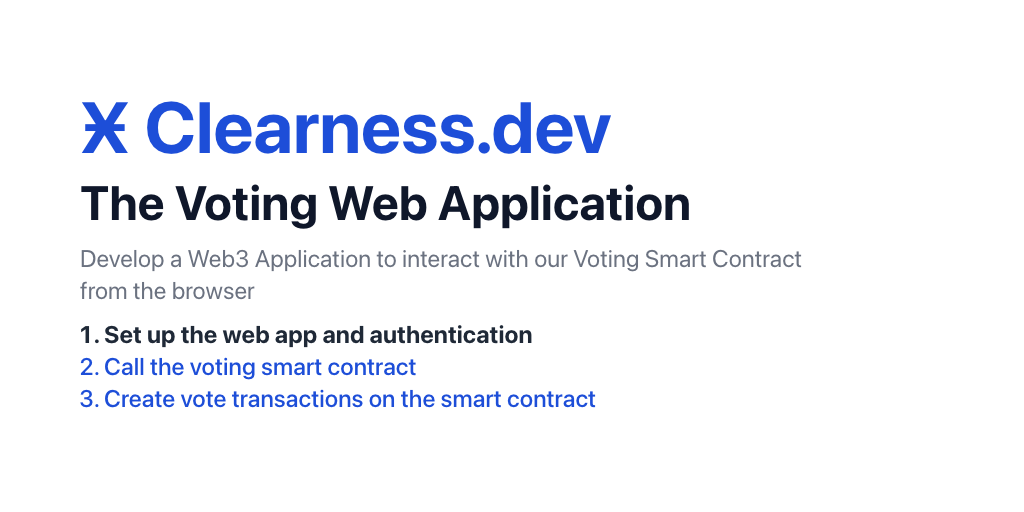
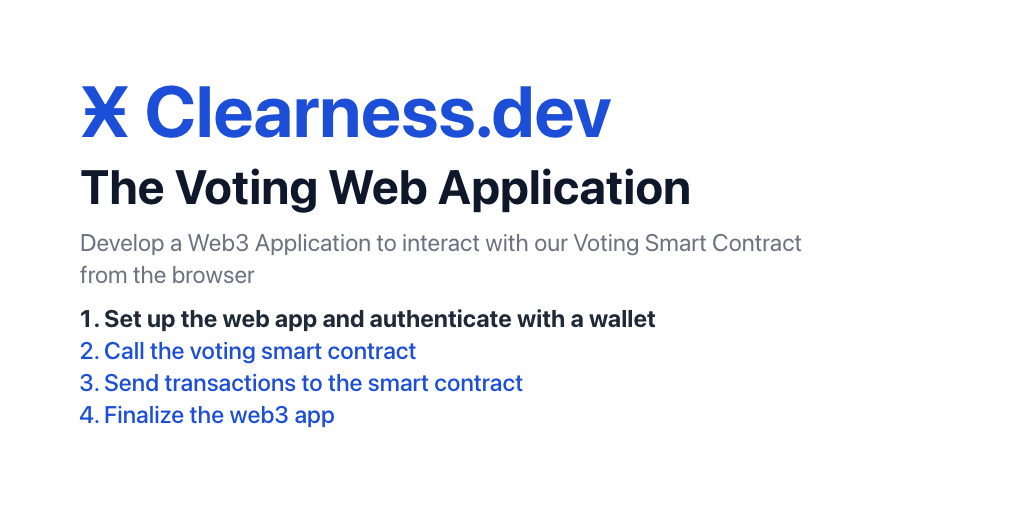
publish article 3.4 and end first web app series

Changed region(s): [[0.0625, 0.1562, 0.7812, 0.8438]]

diff --git a/app/routes/__posts/03-build-the-voting-client/04-improve-stacks-web-app.md b/app/routes/__posts/03-build-the-voting-client/04-improve-stacks-web-app.md
@@ -1,0 +1,208 @@
+---
+headers:
+  Cache-Control: public, max-age=0, must-revalidate, s-maxage=2592000
+---
+
+There will be fundamentally nothing new in this article. Take it as an exercise to practice and review what you previously learned.
+
+### Add a bit of Clarity
+
+I hope you didn't forget how to write Clarity code. Go back to the smart contract and add a function called `get-sender-vote`. This function will tell if the sender already voted and the values of its vote.  
+It's a one-line read-only function that returns `none` or `(some [<value>])`. Even though it's simple, I encourage you to write it yourself since you often need to tweak a contract while building its client app.
+
+Don't forget to add [tests](https://github.com/hugocaillard/clarity-voting-tuto/blob/72bb87d96e8fbd01c093a8d66a5f1367e06eba40/tests/color-vote_test.ts#L285-L303) for this new function.
+
+<details>
+<summary>💡 `get-sender-vote` function</summary>
+
+#### ./contracts/color-vote.clar
+```clarity
+(define-read-only (get-sender-vote) (map-get? votes tx-sender))
+```
+</details>
+
+
+### Get the sender's vote
+
+That's it for the Clarity part. You can go back to that web app code and we will now make use of this new function. In the color vote store, add a function `fetchVote()` that will call `get-sender-vote`. If there is a vote, save it in the `vote` property.  
+The trick here is to handle the [BigInt values](https://developer.mozilla.org/en-US/docs/Web/JavaScript/Reference/Global_Objects/BigInt) that will be returned by the contract. Our store expects Numbers and we want to keep it that way to easily set the values of the vote inputs. BigInts can easily be converted into Numbers with `parseInt`.
+
+Again, try and implement it by yourself as an exercise.
+
+In my implementation, I [changed](https://github.com/hugocaillard/color-webapp-tuto/pull/4/files#diff-c1b28751be28e0da46326d585afa2a643cb5502a35203fbe19b5a3f448311b67R42-R43) the `getInitialVote` function into `getVoteMap` which accepts optional values to return in the map instead of `undefined` values.
+
+<details>
+<summary>Solution: `fetchVote`</summary>
+
+#### ./src/stores/useColorVote.ts
+```ts
+const getVoteMap = (values) =>
+  new Map(ids.map((id, i) => [id, values ? values[i] : undefined]))
+
+export const useColorVote = create<ColorStore>((set, get) => ({
+  vote: getVoteMap(),
+  alreadyVoted: false,
+  // ...
+
+  async fetchVote() {
+    const rawVote = await readOnlyRequest('get-sender-vote')
+
+    const vote = cvToTrueValue(rawVote).map((v) => parseInt(v))
+    set({ vote: getVoteMap(voteAsNbs), alreadyVoted: true })
+  },
+```
+</details>
+
+<details>
+<summary>Typesafe version of `fetchVote`</summary>
+
+#### ./src/stores/useColorVote.ts
+```ts
+type ValidVote = [ValidValue, ValidValue, ValidValue, ValidValue]
+
+function isPreviousVoteValid(vote: unknown): vote is ValidVote {
+  if (!Array.isArray(vote) || vote.length !== 4) return false
+  return vote.reduce((acc, v) => isValueValid(v) && acc, true)
+}
+
+export const useColorVote = create<ColorStore>((set, get) => ({
+  // ...
+
+  async fetchVote() {
+    const rawVote = await readOnlyRequest('get-sender-vote')
+    if (!rawVote) return
+
+    const vote = cvToTrueValue(rawVote)
+    if (!vote || !Array.isArray(vote)) return
+
+    const voteAsNbs = vote.map((v) => parseInt(v))
+    if (!isPreviousVoteValid(voteAsNbs)) return
+    set({ vote: getVoteMap(voteAsNbs), alreadyVoted: true })
+  },
+```
+</details>
+
+### Call `fetchVote`
+
+This new function will be called the same way as `fetchColors`, as early as possible in `App.tsx`.
+
+#### ./src/App.tsx
+```tsx
+export function App() {
+  const { session } = useAuth()
+
+  useEffect(() => {
+    if (session) {
+      const { fetchVote, fetchColors } = useColorVote.getState()
+      fetchVote()
+      fetchColors()
+    }
+  }, [session])
+  // ...
+```
+
+### Update or cancel a vote
+
+Our app is now aware of whether the person already voted or not. This information is useful to know if `revote` should be called instead of `vote` or if `unvote` can be called.
+
+> :point_right: **Exercise**: edit `useColorVote` to:
+> - Call `revote` in `sendVote` if the user already voted
+> - Add an `unvote` function
+
+Note that in all cases (vote, revote and unvote), you want to save the tx ID so that you can display the status of the last transaction.
+
+
+<details>
+<summary>💡 `sendVote` and `unvote` functions</summary>
+
+#### ./src/stores/useColorVote.ts
+```ts
+  // since we now have two functions that save that tx id
+  // I put it in its own function
+  saveTx(txId: string) {
+    localStorage.setItem('txId', txId)
+    set({ txId })
+  },
+
+  async sendVote() {
+    const { vote, alreadyVoted, saveTx } = get()
+    const senderVote = ids.map((id) => vote.get(id))
+    if (!senderVote.every(isValueValid)) return
+
+    // update the contract call function
+    const txId = await callContract(
+      alreadyVoted ? 'revote' : 'vote',
+      senderVote.map(uintCV),
+    )
+    saveTx(txId)
+  },
+
+  async unvote() {
+    const { alreadyVoted, saveTx } = get()
+    if (!alreadyVoted) return
+
+    const txId = await callContract('unvote')
+    set({ vote: getVoteMap() })
+    saveTx(txId)
+  },
+```
+</details>
+
+> :bulb: As always, you may want to have a look at the [file on GitHub](https://github.com/hugocaillard/color-webapp-tuto/blob/step-4/src/stores/useColorVote.ts#L107-L123) to easily follow along.
+
+We can update the form's buttons to take into account the changes in the store.
+
+#### ./src/pages/Vote.tsx
+```tsx
+  const handleUnvote: JSX.MouseEventHandler<HTMLButtonElement> = (e) => {
+    e.preventDefault()
+    unvote()
+  }
+
+  return (
+    // ...
+            <div class="mt-6 flex justify-center gap-4">
+              {/* display "Revote" if the user already voted */}
+              <Button type="submit" disabled={!isValid}>
+                {alreadyVoted ? 'Revote' : 'Vote'}
+              </Button>
+
+              <Button type="reset">Empty form</Button>
+
+              {/* Allow use to cancel its vote */}
+              {alreadyVoted ? (
+                <Button type="button" onClick={handleUnvote}>
+                  Cancel vote
+                </Button>
+              ) : null}
+            </div>
+```
+
+In the `lastVote` component, I also added a line to display the function name of the last contract call since it can now have 3 different values.
+#### ./src/components/LastVote.tsx
+```tsx
+      <p>
+        <b>Function</b>:{' '}
+        <span className="capitalize">{lastTx.contract_call.function_name}</span>
+      </p>
+```
+
+Further improvements ideas:
+- Once the user voted, display the results of the election.
+- The result pages could be implemented with simple routing.
+- If the last tx is pending, fetch it every X seconds to know when it's successful (or if it failed). You don't want to call it too frequently because the API can be overloaded from time to time.
+- Feel free to get in touch with me on [GitHub](https://github.com/hugocaillard/color-webapp-tuto), [Twitter](https://twitter.com/cohars), or the [Stacks Discord](https://community.stacks.org/groups) to propose other ideas to add to this list.
+
+
+You may see these improvements in the latest version of the code on the GitHub repo but I won't cover them in articles.
+
+### Conclusion
+
+Here is the end of the first part of this series.  
+You now master the basics of Clarity and Web3 on Stacks. You can create valuable Smart Contracts and build front-end applications to interact with them.
+
+In the next articles, we will learn concepts such as transferring Stacks on the blockchain and manipulating NFTs. These are keys concepts of Web3 and things will get serious!  
+We will also go through other important concepts such as deploying smart contracts to the Stacks blockchain.
+
+> 💻 **Read the code on GitHub**. The source code of this article is on [this branch](https://github.com/hugocaillard/color-webapp-tuto/tree/step-4).
+> There is a [PR associated with this article](https://github.com/hugocaillard/color-webapp-tuto/pull/4).

diff --git a/app/routes/__posts/03-build-the-voting-client/03-write-on-stacks-blockchain.md b/app/routes/__posts/03-build-the-voting-client/03-write-on-stacks-blockchain.md
@@ -62,7 +62,7 @@ We will now go back to the `useColorVote` store and make use of this new functio
 
 To handle the sender's vote values, we'll add a `vote` [Map](https://developer.mozilla.org/fr/docs/Web/JavaScript/Reference/Global_Objects/Map) to store the value of each color. Maps are simple key-value stores and the key can be anything. In our case, it will be the IDs of the vote options (which are BigInts).
 
-#### ./src/storesuseColorVote.ts
+#### ./src/stores/useColorVote.ts
 
 ```ts
 import { cvToTrueValue, uintCV } from 'micro-stacks/clarity'
@@ -91,8 +91,7 @@ export const useColorVote = create<ColorStore>((set, get) => ({
 
 The big difference here is the `isValueValid` method and the strict typing of a valid vote value.
 
-#### ./src/storesuseColorVote.ts
-
+#### ./src/stores/useColorVote.ts
 ```ts
 import { cvToTrueValue, uintCV } from 'micro-stacks/clarity'
 
@@ -136,7 +135,7 @@ export const useColorVote = create<ColorStore>((set, get) => ({
 One last method is needed in this store to update the vote values. I named it `updateVote`, it takes two arguments, the color ID and the value of the vote.
 The method makes sure that the value is between 0 and 5 and then updates the votes map.
 
-#### ./src/storesuseColorVote.ts
+#### ./src/stores/useColorVote.ts
 
 ```ts
 export const useColorVote = create<ColorStore>((set, get) => ({
@@ -152,7 +151,7 @@ export const useColorVote = create<ColorStore>((set, get) => ({
 
 > :point_right: In the TS version you also need to call `isValueValid` function to ensure type safety (or use `as Vote`).
 
-At this stage, you can check the [`useColorVote.ts`](https://github.com/hugocaillard/color-webapp-tuto/blob/step-3/src/storesuseColorVote.ts) file on the repo if you want to see the `sendVote` and `updateVote`.
+At this stage, you can check the [`useColorVote.ts`](https://github.com/hugocaillard/color-webapp-tuto/blob/step-3/src/stores/useColorVote.ts) file on the repo if you want to see the `sendVote` and `updateVote`.
 
 The vote store is now complete and ready to write data on the blockchain.
 
@@ -162,7 +161,7 @@ For completeness, let's take some time to see how to create the voting form. To 
 Open `Vote.tsx` and import the `VoteInput` in it as well as the `Button` component.
 
 #### ./src/pages/Vote.tsx
-```ts
+```tsx
 // <imports>
 
 export const Vote = () => {
@@ -202,7 +201,7 @@ If a person casts a vote and immediately refreshes the page, they won't see that
 
 Each transaction has a unique ID, which is returned by the `contractCall` function. We will update the `sendVote` function to save the `txId` in the local storage to retrieve it on page refresh.
 
-#### ./src/pages/Vote.tsx
+#### ./src/stores/useColorVote.ts
 ```ts
 import { fetchTransaction } from 'micro-stacks/api'
 // you'll need to export `network` from stacks.ts and import here
@@ -243,7 +242,7 @@ export const useColorVote = create((set, get) => ({
 
 You'll need to install the `@stacks/stacks-blockchain-api-types` package because `micro-stacks` does not expose some types at the moment.
 
-#### ./src/pages/Vote.tsx
+#### ./src/stores/useColorVote.ts
 ```ts
 import { fetchTransaction } from 'micro-stacks/api'
 import type {
@@ -301,8 +300,8 @@ export const useColorVote = create<ColorStore>((set, get) => ({
 Some useful data can be retrieved in the transactions (or "tx"). Especially the status and the arguments.  
 Create a file `LastVote.tsx` in `componenents`. We'll call `fetchLastTx` inside a `useEffect` to retrieve the transaction and some relevant informations. You can add this components at this end of the `Vote.tsx` page.
 
-#### ./src/components/LastVot.tsx
-```ts
+#### ./src/components/LastVote.tsx
+```tsx
 import { useEffect } from 'preact/hooks'
 
 import { useColorVote } from '../stores/useColorVote'

diff --git a/app/routes/__posts/03-build-the-voting-client/02-call-smart-contract.md b/app/routes/__posts/03-build-the-voting-client/02-call-smart-contract.md
@@ -172,7 +172,7 @@ As you can see, the "rawColors" object would be painful to use later in our code
 
 Here is the store for ColorVote. Again, this is a pretty simple implementation, see below for a more complete one. This store only fetches colors but it will quickly have more method to cast a vote, cancel, or edit it.
 
-#### ./src/storesuseColorVote.ts
+#### ./src/stores/useColorVote.ts
 ```ts
 import create from 'zustand'
 import { cvToTrueValue } from 'micro-stacks/clarity'
@@ -194,6 +194,7 @@ export const useColorVote = create((set, get) => ({
 <details>
 <summary>Improved version with error handling a types safety</summary>
 
+#### ./src/stores/useColorVote.tsx
 ```ts
 import create from 'zustand'
 import { cvToTrueValue } from 'micro-stacks/clarity'
@@ -236,7 +237,7 @@ This store is now ready to be called. We want to fetch the colors early in our a
 As often, there are multiple ways to achieve it, here is one. We'll modify `App.tsx` to initiate the fetch.
 
 #### ./src/App.tsx
-```ts
+```tsx
 // add imports
 import { useEffect } from 'preact/hooks'
 import { useColorVote } from './stores/useColorVote'

diff --git a/app/routes/__posts/03-build-the-voting-client/index.md b/app/routes/__posts/03-build-the-voting-client/index.md
@@ -5,7 +5,7 @@ title: The Voting Web Application
 description: Develop a Web3 Application to interact with our Voting Smart Contract from the browser
 posts:
   01-setup-web3-application:
-    title: Set up the web app and authentication
+    title: Set up the web app and authenticate with a wallet
     description: Build a Web3 application with Stacks and authenticate with our web Wallet
     publicationDate: 29/03/2022
     lastEditDate: 29/03/2022
@@ -22,10 +22,10 @@ posts:
     publicationDate: 05/04/2022
     lastEditDate: 05/04/2022
     wip: false
-  04-04-improve-web-app:
-    title: Finalize the Web App
+  04-improve-stacks-web-app:
+    title: Finalize the web3 app
     description: Write some more Clarity and use unvote and revote public functions
     publicationDate: 08/04/2022
     lastEditDate: 08/04/2022
-    wip: true
+    wip: false
 ---

diff --git a/app/routes/__posts/03-build-the-voting-client/01-setup-web3-application.md b/app/routes/__posts/03-build-the-voting-client/01-setup-web3-application.md
@@ -126,7 +126,7 @@ export const useAuth = create<AuthStore>((set) => ({
 This store will be used in the [Header component](https://github.com/hugocaillard/color-webapp-tuto/blob/step-0/src/components/Header.tsx) to open the popup when the button is clicked. Import `useAuth`, it's a hook that exposes a `connect` method that is passed to `onClick`.
 
 #### ./src/components/Header.tsx
-```ts
+```tsx
 // imports...
 import { useAuth } from '../stores/useAuth'
 
